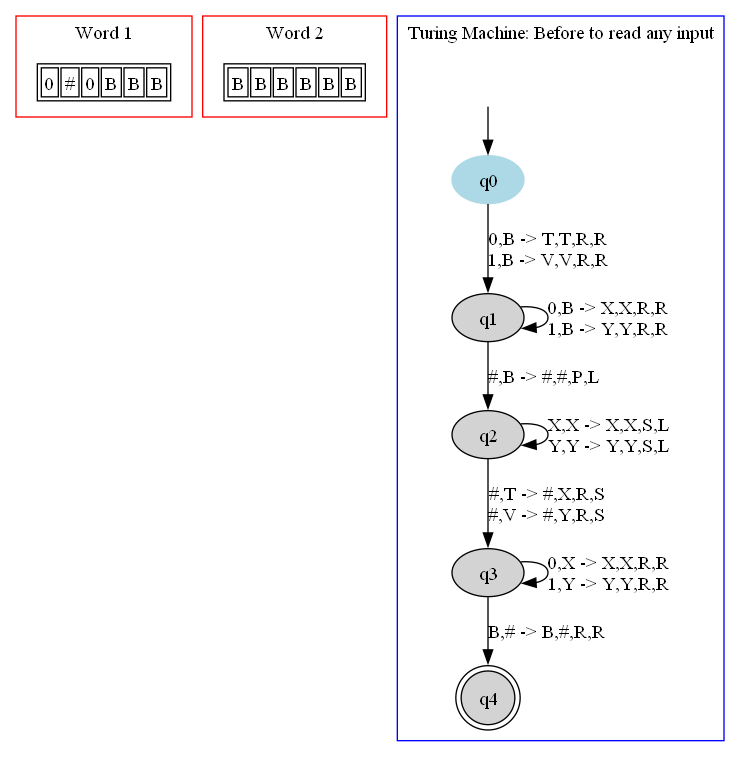
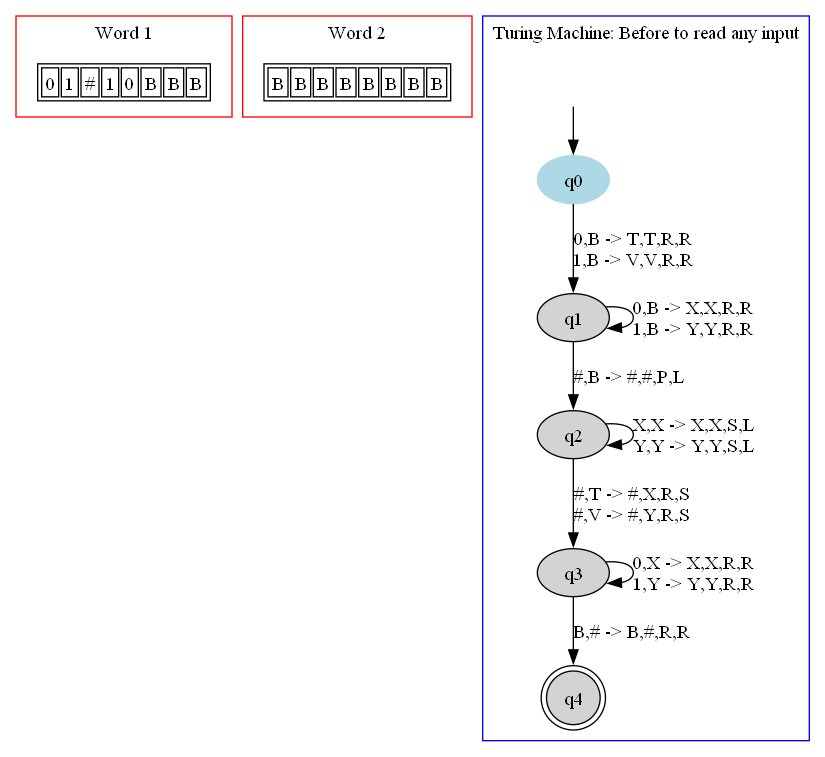
Melhorando, mas ainda falta

diff --git a/TM2FITAS/main.cpp b/TM2FITAS/main.cpp
@@ -15,7 +15,18 @@ int main(int argc, char *argv[])
     tm.configure_sample(TuringMachineSamples::get_structure_of_q7());
     tm.draw_machine(local_url, tm.getNameOfTuringMachine()+".png");
 
-    tm.is_this_input_string_in_the_language_with_message("0#0BBB", true);   //Ex1: This must be accepted
+    //tm.is_this_input_string_in_the_language_with_message("0#0BBB", true);   //Ex1: This must be accepted
+    //tm.is_this_input_string_in_the_language_with_message("1#1BBB", true);   //Ex2: This must be accepted
+
+    //tm.is_this_input_string_in_the_language_with_message("#BBB", true);   //Ex3: This must be accepted
+
+    //tm.is_this_input_string_in_the_language_with_message("01#01BBB", true);   //Ex4: This must be accepted
+
+    //tm.is_this_input_string_in_the_language_with_message("10#10BBB", true);   //Ex5: This must be accepted
+
+    //tm.is_this_input_string_in_the_language_with_message("0#1BBB", true);   //Ex6: This must NOT be accepted
+    //tm.is_this_input_string_in_the_language_with_message("1#0BBB", true);   //Ex7: This must NOT be accepted
+    tm.is_this_input_string_in_the_language_with_message("01#10BBB", true);   //Ex8: This must NOT be accepted
 
     //return a.exec();
     return 0;
